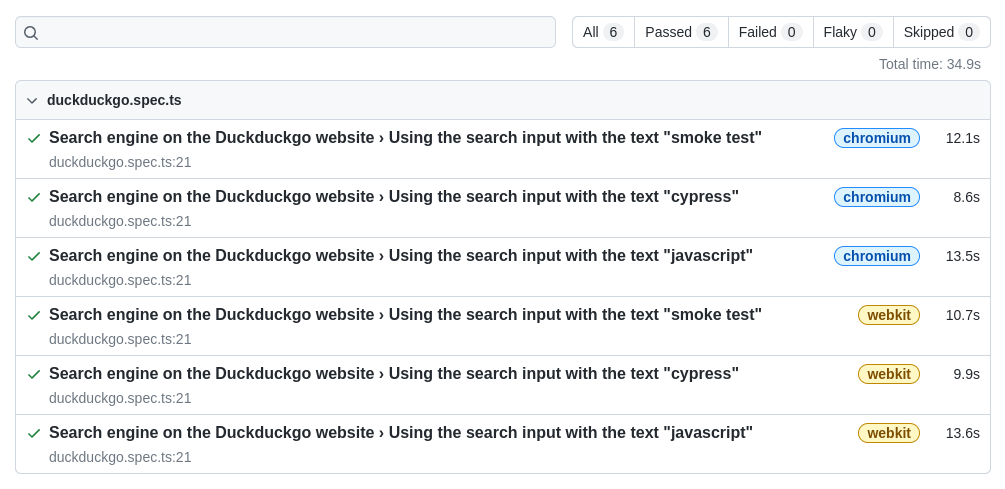
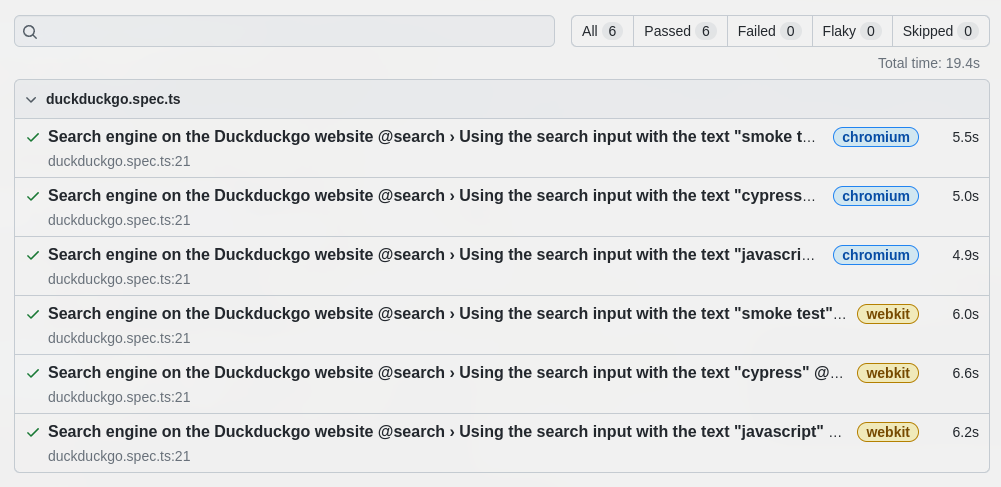
documentation: change sample

diff --git a/README.md b/README.md
@@ -2,7 +2,7 @@
 
 # BDD base project: Playwright + Typescript
 
-Basic example of Playwright with Typescript on Chrome and Safari (in parallel)
+Basic example of Playwright with Typescript on Chrome and Safari (in parallel).
 
 # Table of contents
 
@@ -42,10 +42,10 @@ npm test
 
 ```bash
 Running 6 tests using 2 workers
-  Slow test file: [webkit] › duckduckgo.spec.ts (34.2s)
-  Slow test file: [chromium] › duckduckgo.spec.ts (34.2s)
+  Slow test file: [webkit] › duckduckgo.spec.ts (18.8s)
+  Slow test file: [chromium] › duckduckgo.spec.ts (15.3s)
   Consider splitting slow test files to speed up parallel execution
-  6 passed (34.9s)
+  6 passed (19.4s)
 ```
 
 **HTML report**:
